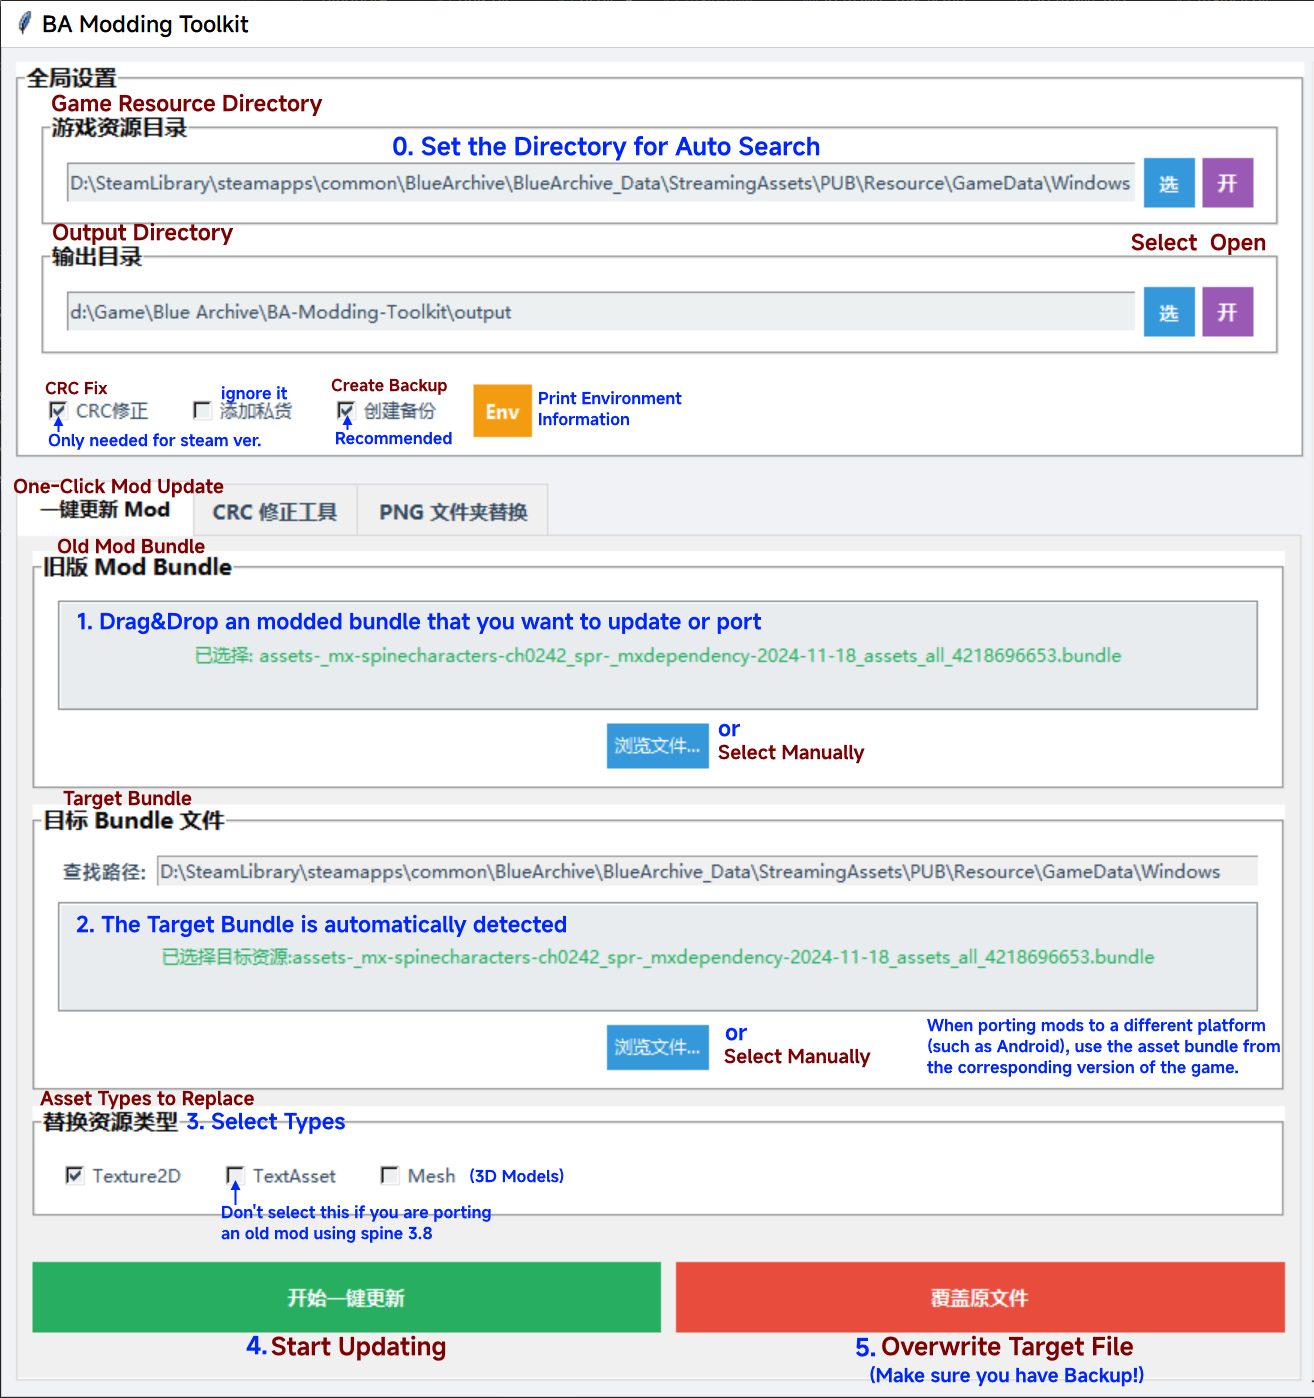
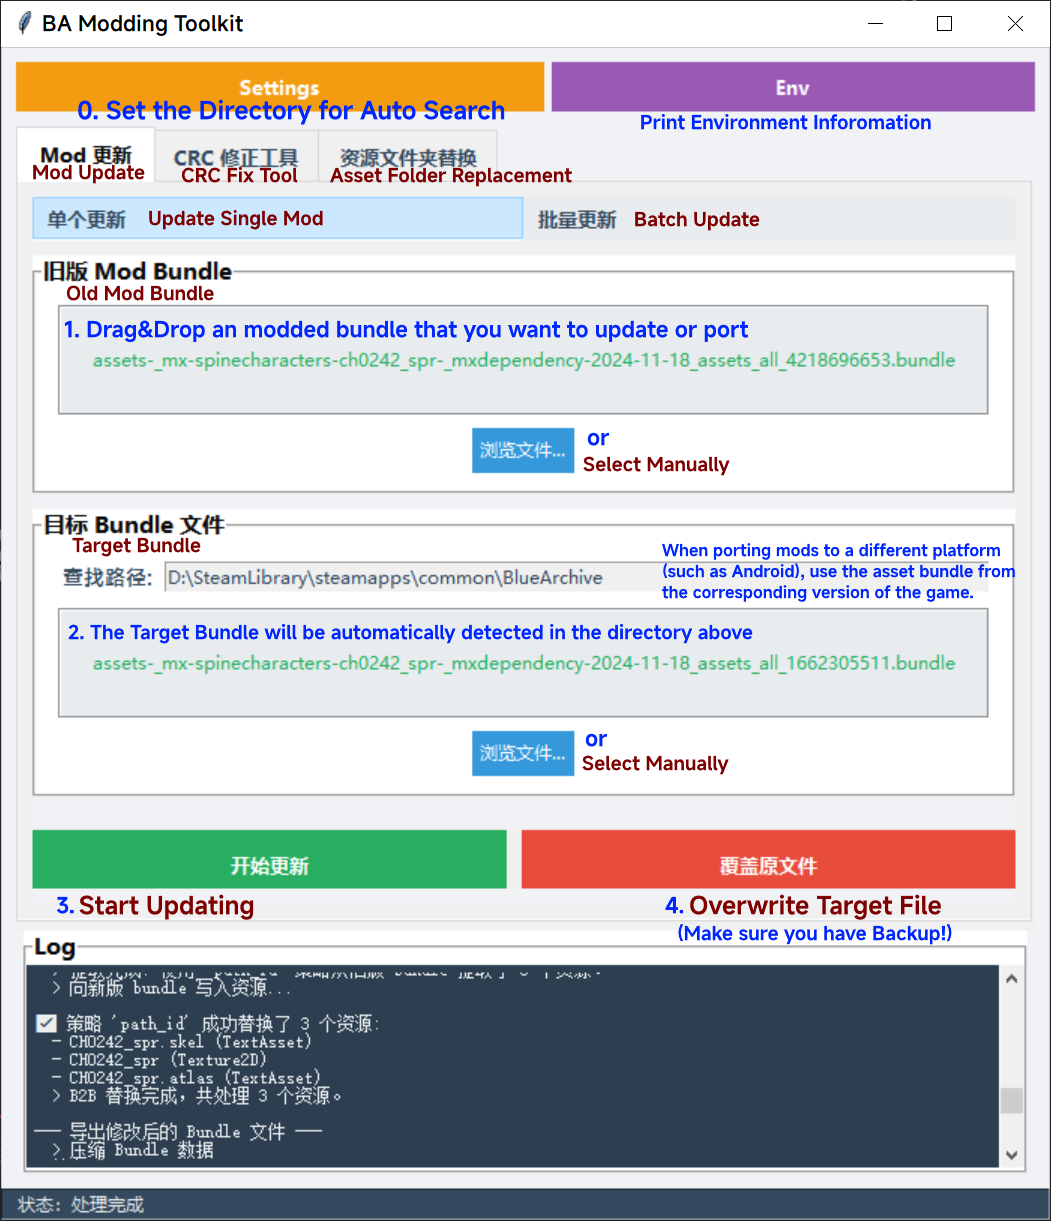
docs: 更新README和添加帮助图片
- 添加中英文设置界面和mod更新帮助图片

diff --git a/README_zh-CN.md b/README_zh-CN.md
@@ -43,24 +43,28 @@ python maincli.py env
 点击主界面上方的 **Settings** 按钮打开高级设置窗口。
 程序可以将用户配置保存到 `config.ini` 文件，下次启动时会自动恢复之前的设置。
 
-### 目录设置
+### 设置界面
+
+![Settings](assets/help/gui-help-settings-zhcn.png)
+
+#### 目录设置
 - **游戏根目录**：设置游戏安装目录。程序能够自动检测资源子目录
 - **输出目录**：设置生成文件的保存位置
 
-### 全局选项
+#### 全局选项
 - **CRC 修正**：自动修正 Bundle 文件的 CRC 校验值，防止文件被修改后无法运行
     - 当前仅 Steam 版本 Mod 需要此步骤，其他版本 Mod 可忽略
 - 添加私货: 在CRC修正之前添加`0x08080808`。~~确实是私货，不选也没有影响~~
 - **创建备份**：在覆盖原文件之前创建原文件的备份
 - **压缩方式**：选择 Bundle 文件的压缩方式（LZMA、LZ4、保持原始、不压缩）
 
-### 资源类型选项
+#### 资源类型选项
 - **Texture2D**：立绘、贴图、纹理资源
 - **TextAsset**：`.atlas`、`.skel`文件，Spine使用的骨骼文件
 - **Mesh**：3D 模型资源
 - **ALL**：所有类型的资源，也包括上面三者之外的类型（实验性，不推荐启用）
 
-### Spine 转换器（实验性功能）
+#### Spine 转换器（实验性功能）
 使用第三方程序，将较老的 Spine 3.8 格式转换为当前版本支持的 4.2 格式。
 - 请自行下载第三方 Spine 转换器程序，BAMT 仅提供调用程序转换功能，不包含该程序本体。
 - 下载地址：[SpineSkeletonDataConverter](https://github.com/wang606/SpineSkeletonDataConverter/releases)
@@ -70,7 +74,7 @@ python maincli.py env
 
 ## 使用方法
 
-![How to update a mod with BAMT GUI](assets/help/gui-help-mod-update-en.png)
+![How to update a mod with BAMT GUI](assets/help/gui-help-mod-update-zhcn.png)
 
 - 首先，请打开 Settings 窗口，配置好游戏根目录和输出目录。
 - 如果是为Steam版更新或制作Mod，请勾选"CRC 修正"选项。

diff --git a/README.md b/README.md
@@ -45,24 +45,28 @@ The program contains multiple functional tabs:
 Click the **Settings** button at the top of the main interface to open the advanced settings window.
 The program can save user configurations to the `config.ini` file, which will be automatically restored upon next startup.
 
-### Directory Settings
+### Settings Interface
+
+![Settings](assets/help/gui-help-settings-en.png)
+
+#### Directory Settings
 - **游戏根目录** (Game Root Directory): Set the game installation directory. The program can automatically detect resource subdirectories
 - **输出目录** (Output Directory): Set the save location for generated files
 
-### Global Options
+#### Global Options
 - **CRC 修正** (CRC Fix): Automatically corrects the Bundle file's CRC checksum, preventing the file from being rejected after modification
     - Currently only required for Steam version Mods, can be ignored for other versions
 - 添加私货: Add `0x08080808` before CRC correction. ~~You can ignore it lol~~
 - **创建备份** (Create Backup): Creates a backup of the original file before overwriting it
 - **压缩方式** (Compression Method): Select the compression method for Bundle files (LZMA, LZ4, Keep Original, No Compression)
 
-### Asset Type Options
+#### Asset Type Options
 - **Texture2D**: Illustrations, textures, image assets
 - **TextAsset**: `.atlas`, `.skel` files, Spine animation skeleton files
 - **Mesh**: 3D model assets
 - **ALL**: All types of assets, including those not listed above (experimental, not recommended)
 
-### Spine Converter (Experimental Feature)
+#### Spine Converter (Experimental Feature)
 Uses a third-party program to convert older Spine 3.8 format to the currently supported 4.2 format.
 - You need to download the third-party Spine converter program yourself. BAMT only calls the program to convert Spine files, not provides the program itself.
 - Download URL: [SpineSkeletonDataConverter](https://github.com/wang606/SpineSkeletonDataConverter/releases)
